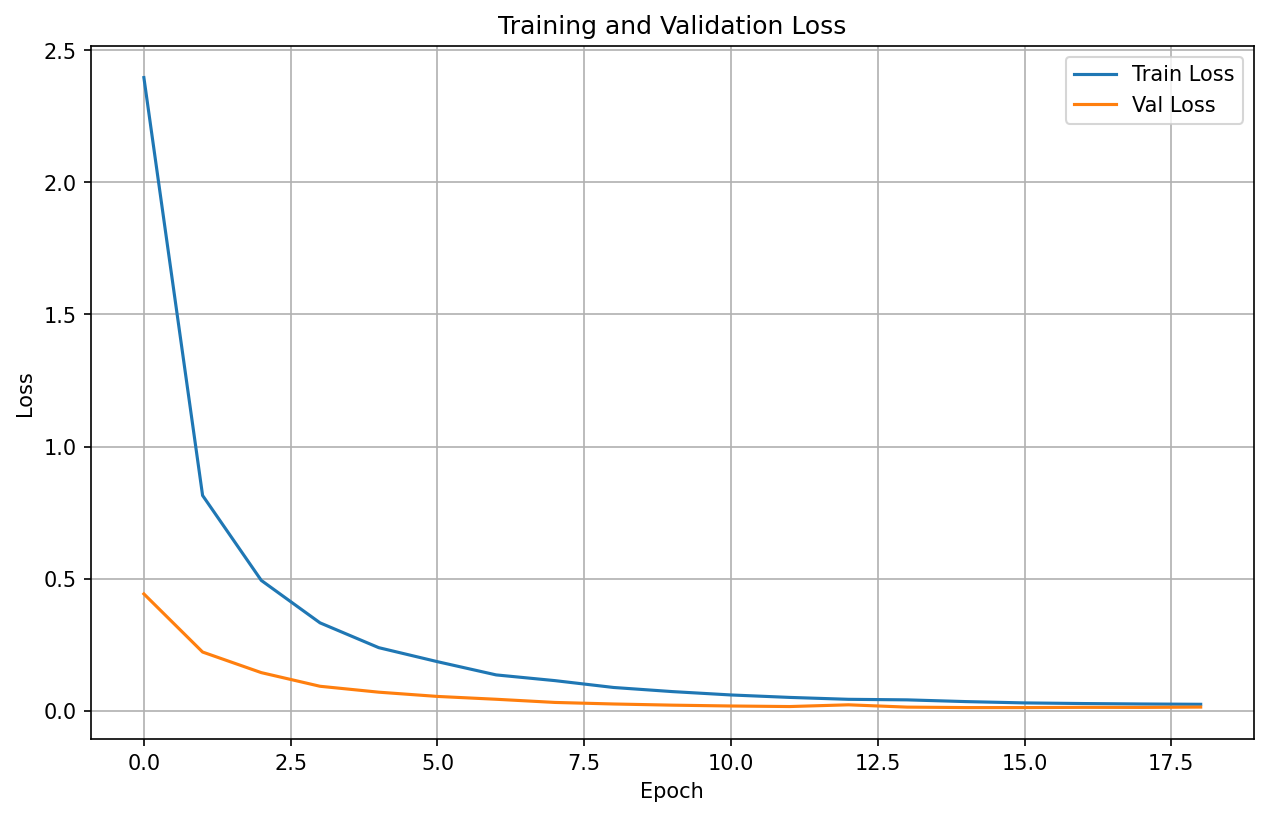
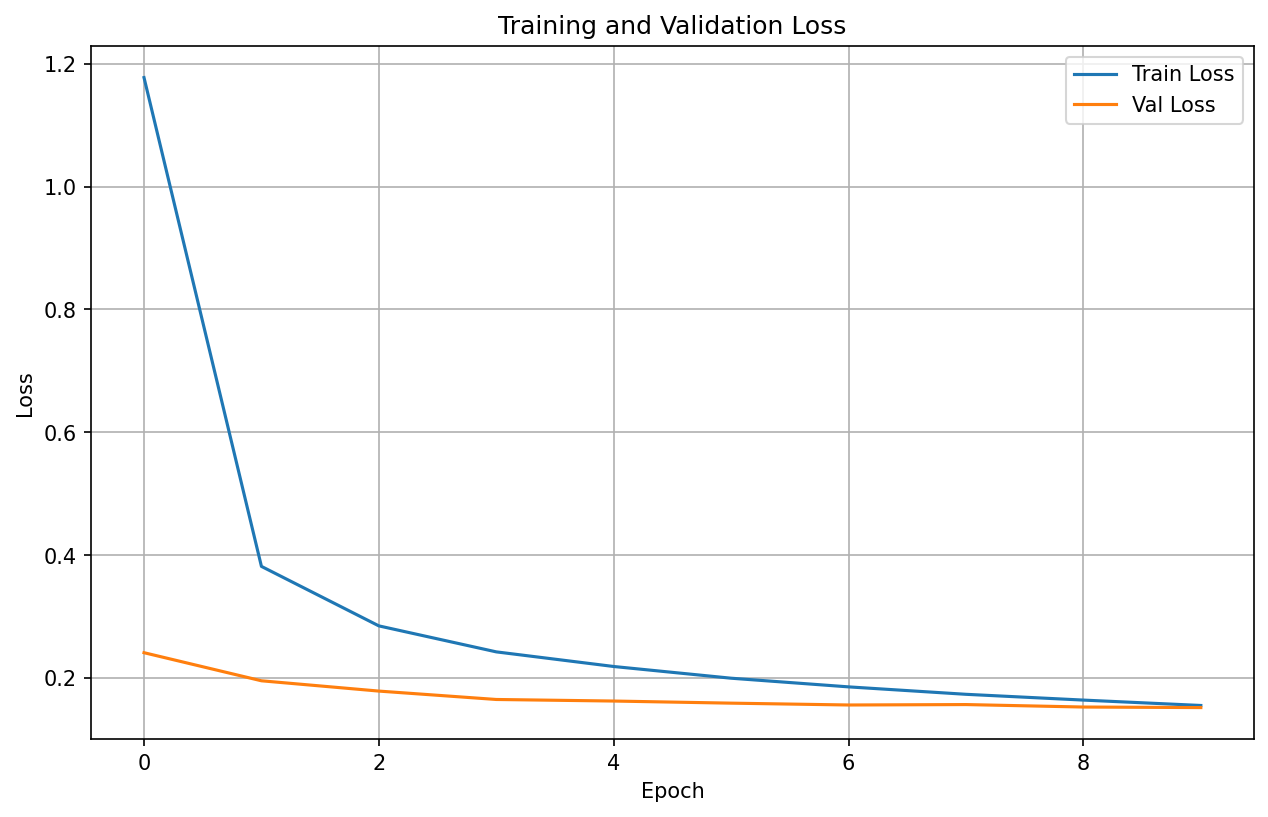
test simple CNN model on the emnist dataset

diff --git a/deep_learning/emnist_test.py b/deep_learning/emnist_test.py
@@ -1,0 +1,98 @@
+from models.emnist_model import AlphabetRecognizerEmnist
+import torch
+from torchvision import datasets, transforms
+from torch.utils.data import DataLoader
+from sklearn.metrics import classification_report, confusion_matrix
+import matplotlib.pyplot as plt
+import seaborn as sns
+import numpy as np
+
+device = torch.device('cuda' if torch.cuda.is_available() else 'cpu')
+
+# Загрузка модели
+model = AlphabetRecognizerEmnist(num_classes=26)
+checkpoint = torch.load('best_alphabet_model.pth', map_location=device)
+model.load_state_dict(checkpoint['model_state_dict'])
+model.eval()
+model.to(device)
+
+# Загрузка EMNIST
+transform = transforms.Compose([
+    transforms.ToTensor(),
+    transforms.Normalize((0.1307,), (0.3081,))
+])
+
+test_dataset = datasets.EMNIST(
+    root='../emnist_data',
+    split='letters',
+    train=False,
+    download=False,
+    transform=transform
+)
+
+test_loader = DataLoader(test_dataset, batch_size=64, shuffle=False)
+
+# ✅ Полная проверка на всех данных
+def evaluate_full(model, test_loader, device):
+    model.eval()
+    correct = 0
+    total = 0
+    all_preds = []
+    all_labels = []
+    
+    with torch.no_grad():
+        for images, labels in test_loader:
+            images, labels = images.to(device), labels.to(device)
+            labels = labels - 1  # Сдвиг 1-26 → 0-25
+            
+            outputs = model(images)
+            _, predicted = torch.max(outputs, 1)
+            
+            total += labels.size(0)
+            correct += (predicted == labels).sum().item()
+            
+            all_preds.extend(predicted.cpu().numpy())
+            all_labels.extend(labels.cpu().numpy())
+    
+    accuracy = 100 * correct / total
+    print(f"✅ Test Accuracy: {accuracy:.2f}%")
+    print(f"   Total samples: {total}")
+    print(f"   Correct: {correct}")
+    print(f"   Incorrect: {total - correct}")
+    
+    return accuracy, all_preds, all_labels
+
+# Запуск полной проверки
+accuracy, preds, labels = evaluate_full(model, test_loader, device)
+
+# 📊 Classification Report
+class_names = [chr(ord('A') + i) for i in range(26)]
+print("\n📊 Classification Report:")
+print(classification_report(labels, preds, target_names=class_names, zero_division=0))
+
+# 🔍 Confusion Matrix
+cm = confusion_matrix(labels, preds)
+plt.figure(figsize=(20, 20))
+sns.heatmap(cm, annot=True, fmt='d', cmap='Blues',
+            xticklabels=class_names, yticklabels=class_names)
+plt.title('Confusion Matrix - EMNIST Letters')
+plt.xlabel('Predicted')
+plt.ylabel('True')
+plt.savefig('confusion_matrix_emnist.png', dpi=150, bbox_inches='tight')
+plt.show()
+
+# 📈 Per-class accuracy
+print("\n📈 Per-class accuracy:")
+class_correct = np.zeros(26)
+class_total = np.zeros(26)
+for i in range(len(labels)):
+    class_total[labels[i]] += 1
+    if preds[i] == labels[i]:
+        class_correct[labels[i]] += 1
+
+for i in range(26):
+    if class_total[i] > 0:
+        acc = 100 * class_correct[i] / class_total[i]
+        print(f"  {chr(ord('A') + i)}: {acc:.2f}% ({int(class_correct[i])}/{int(class_total[i])})")
+    else:
+        print(f"  {chr(ord('A') + i)}: No samples")

diff --git a/deep_learning/emnist_train.py b/deep_learning/emnist_train.py
@@ -1,0 +1,89 @@
+from data.augmentation import ExtractLetterWithMargin, SquarePad
+from training.callbacks import EarlyStopping
+import torch
+from torchvision import datasets, transforms
+from torch.utils.data import DataLoader, random_split
+from models.emnist_model import AlphabetRecognizerEmnist
+from training.trainer import ModelTrainer
+import yaml
+from torch.utils.tensorboard import SummaryWriter
+import matplotlib.pyplot as plt
+
+
+def load_config(config_path='config/config.yaml'):
+    """Loads the configuration"""
+    with open(config_path, 'r') as f:
+        return yaml.safe_load(f)
+
+def main():
+    config = load_config()    
+    writer = SummaryWriter('runs/alphabet_experiment')
+    device = torch.device('cuda' if torch.cuda.is_available() else 'cpu')
+    
+    # Трансформации
+    transform = transforms.Compose([
+        # transforms.Grayscale(num_output_channels=1),
+        # ExtractLetterWithMargin(margin=4, fill_white=True),
+        # CenterDigitsTransform(padding=10, fill_value=255),
+        # SquarePad(fill_white=True),
+        # transforms.Resize((28, 28)),
+
+        # transforms.RandomRotation(180),  # Поворот на 90°
+        # transforms.RandomHorizontalFlip(p=1.0),  # Зеркальное отражение (всегда)
+        transforms.ToTensor(),
+        transforms.Normalize((0.1307,), (0.3081,))
+    ])
+    
+    # EMNIST
+    emnist = datasets.EMNIST(
+        root='../emnist_data',
+        split='letters',
+        train=True,
+        download=True,
+        transform=transform
+    )
+    
+    # Разделение train/val
+    train_size = int(0.8 * len(emnist))
+    val_size = len(emnist) - train_size
+    train_dataset, val_dataset = random_split(emnist, [train_size, val_size])
+        
+
+        # Показать примеры
+    fig, axes = plt.subplots(16, 16, figsize=(16, 16))
+    for i in range(254):
+        img, label = train_dataset[i]
+        row = i // 16
+        col = i % 16
+        axes[row, col].imshow(img.squeeze(), cmap='gray')
+        axes[row, col].set_title(f'{emnist.classes[label]}', fontsize=6)
+        axes[row, col].axis('off')
+
+    for i in range(254, 256):
+        row = i // 16
+        col = i % 16
+        axes[row, col].axis('off')
+
+    plt.tight_layout()
+    plt.show()
+
+    # Проверьте размеры
+    print(f"Image shape: {img.shape}") 
+
+    # DataLoaders
+    train_loader = DataLoader(train_dataset, batch_size=64, shuffle=True)
+    val_loader = DataLoader(val_dataset, batch_size=64, shuffle=False)
+    
+    # Модель
+    model = AlphabetRecognizerEmnist(num_classes=26)  # A-Z
+    model.to(device)
+    
+    # Тренировка
+    trainer = ModelTrainer(model, device, config=config, writer=writer)
+    early_stopping = EarlyStopping(patience=config['training']['early_stopping_patience'])
+    
+    trainer.train(train_loader, val_loader, class_names=[chr(ord('A')+i) for i in range(26)], early_stopping=early_stopping)
+
+
+if __name__ == "__main__":
+    main()

diff --git a/deep_learning/models/emnist_model.py b/deep_learning/models/emnist_model.py
@@ -1,0 +1,58 @@
+import torch
+import torch.nn as nn
+
+class AlphabetRecognizerEmnist(nn.Module):
+    def __init__(self, num_classes=26):  # EMNIST letters: A-Z = 26 классов
+        super(AlphabetRecognizerEmnist, self).__init__()
+        
+        # Conv layers
+        self.conv1 = nn.Conv2d(1, 32, kernel_size=3, padding=1)
+        self.bn1 = nn.BatchNorm2d(32)
+        self.conv2 = nn.Conv2d(32, 64, kernel_size=3, padding=1)
+        self.bn2 = nn.BatchNorm2d(64)
+        self.conv3 = nn.Conv2d(64, 128, kernel_size=3, padding=1)
+        self.bn3 = nn.BatchNorm2d(128)
+        self.pool = nn.MaxPool2d(2, 2)
+
+        # ✅ Для EMNIST: 28 -> 14 -> 7 -> 3 (после 3 сверток)
+        # 128 * 3 * 3 = 1152
+        self.fc1 = nn.Linear(128 * 3 * 3, 512)  # 1152 → 512
+        self.bn4 = nn.BatchNorm1d(512)
+        self.fc2 = nn.Linear(512, 256)
+        self.bn5 = nn.BatchNorm1d(256)
+        self.fc3 = nn.Linear(256, num_classes)
+        
+        self.dropout = nn.Dropout(0.5)
+        self.relu = nn.ReLU()
+        
+        self._init_weights()
+
+    def _init_weights(self):
+        for m in self.modules():
+            if isinstance(m, nn.Conv2d) or isinstance(m, nn.Linear):
+                nn.init.kaiming_normal_(m.weight, mode='fan_out', nonlinearity='relu')
+                if m.bias is not None:
+                    nn.init.constant_(m.bias, 0)
+            elif isinstance(m, nn.BatchNorm2d) or isinstance(m, nn.BatchNorm1d):
+                nn.init.constant_(m.weight, 1)
+                nn.init.constant_(m.bias, 0)
+
+    def forward(self, x):
+        # 28x28 -> 14x14x32
+        x = self.pool(self.relu(self.bn1(self.conv1(x))))
+        # 14x14x32 -> 7x7x64
+        x = self.pool(self.relu(self.bn2(self.conv2(x))))
+        # 7x7x64 -> 3x3x128
+        x = self.pool(self.relu(self.bn3(self.conv3(x))))
+        
+        # Flatten: 3x3x128 = 1152
+        x = x.view(x.size(0), -1)
+        
+        # Fully connected layers
+        x = self.relu(self.bn4(self.fc1(x)))
+        x = self.dropout(x)
+        x = self.relu(self.bn5(self.fc2(x)))
+        x = self.dropout(x)
+        x = self.fc3(x)
+        
+        return x

diff --git a/deep_learning/training/trainer.py b/deep_learning/training/trainer.py
@@ -119,6 +119,7 @@ class ModelTrainer:
         loop = tqdm(train_loader, desc="Training")
         for inputs, labels in loop:
             inputs, labels = inputs.to(self.device), labels.to(self.device)
+            labels = labels - 1 
             
             self.optimizer.zero_grad()
             outputs = self.model(inputs)
@@ -169,6 +170,8 @@ class ModelTrainer:
         with torch.no_grad():
             for inputs, labels in val_loader:
                 inputs, labels = inputs.to(self.device), labels.to(self.device)
+                labels = labels - 1 
+
                 outputs = self.model(inputs)
                 loss = self.criterion(outputs, labels)
                 
@@ -204,6 +207,8 @@ class ModelTrainer:
         with torch.no_grad():
             for inputs, labels in val_loader:
                 inputs, labels = inputs.to(self.device), labels.to(self.device)
+                labels = labels - 1 
+
                 outputs = self.model(inputs)
                 _, predicted = torch.max(outputs, 1)
                 all_preds.extend(predicted.cpu().numpy())
@@ -327,16 +332,16 @@ class ModelTrainer:
                             self.log_confusion_matrix(val_loader, class_names, epoch + 1)
                         
                         # Сохраняем модель в MLflow
-                        model_name = f"alphabet_model_f1_{self.best_f1:.4f}_acc_{self.best_acc:.2f}".replace('.', '_')
+                        # model_name = f"alphabet_model_f1_{self.best_f1:.4f}_acc_{self.best_acc:.2f}".replace('.', '_')
                         
-                        # Сохраняем модель
-                        mlflow.pytorch.log_model(
-                            pytorch_model=self.model,
-                            artifact_path="best_model",
-                            registered_model_name=model_name,
-                            serialization_format='pickle',
-                            pip_requirements=["torch>=2.0.0", "torchvision>=0.15.0", "scikit-learn>=1.0.0"]
-                        )
+                        # # Сохраняем модель
+                        # mlflow.pytorch.log_model(
+                        #     pytorch_model=self.model,
+                        #     artifact_path="best_model",
+                        #     registered_model_name=model_name,
+                        #     serialization_format='pickle',
+                        #     pip_requirements=["torch>=2.0.0", "torchvision>=0.15.0", "scikit-learn>=1.0.0"]
+                        # )
                 
                 # Early stopping (теперь на основе F1 вместо accuracy)
                 if early_stopping(val_f1):
@@ -445,6 +450,8 @@ class ModelTrainer:
         with torch.no_grad():
             for inputs, labels in val_loader:
                 inputs, labels = inputs.to(self.device), labels.to(self.device)
+                labels = labels - 1 
+
                 outputs = self.model(inputs)
                 _, predicted = torch.max(outputs, 1)
                 all_preds.extend(predicted.cpu().numpy())